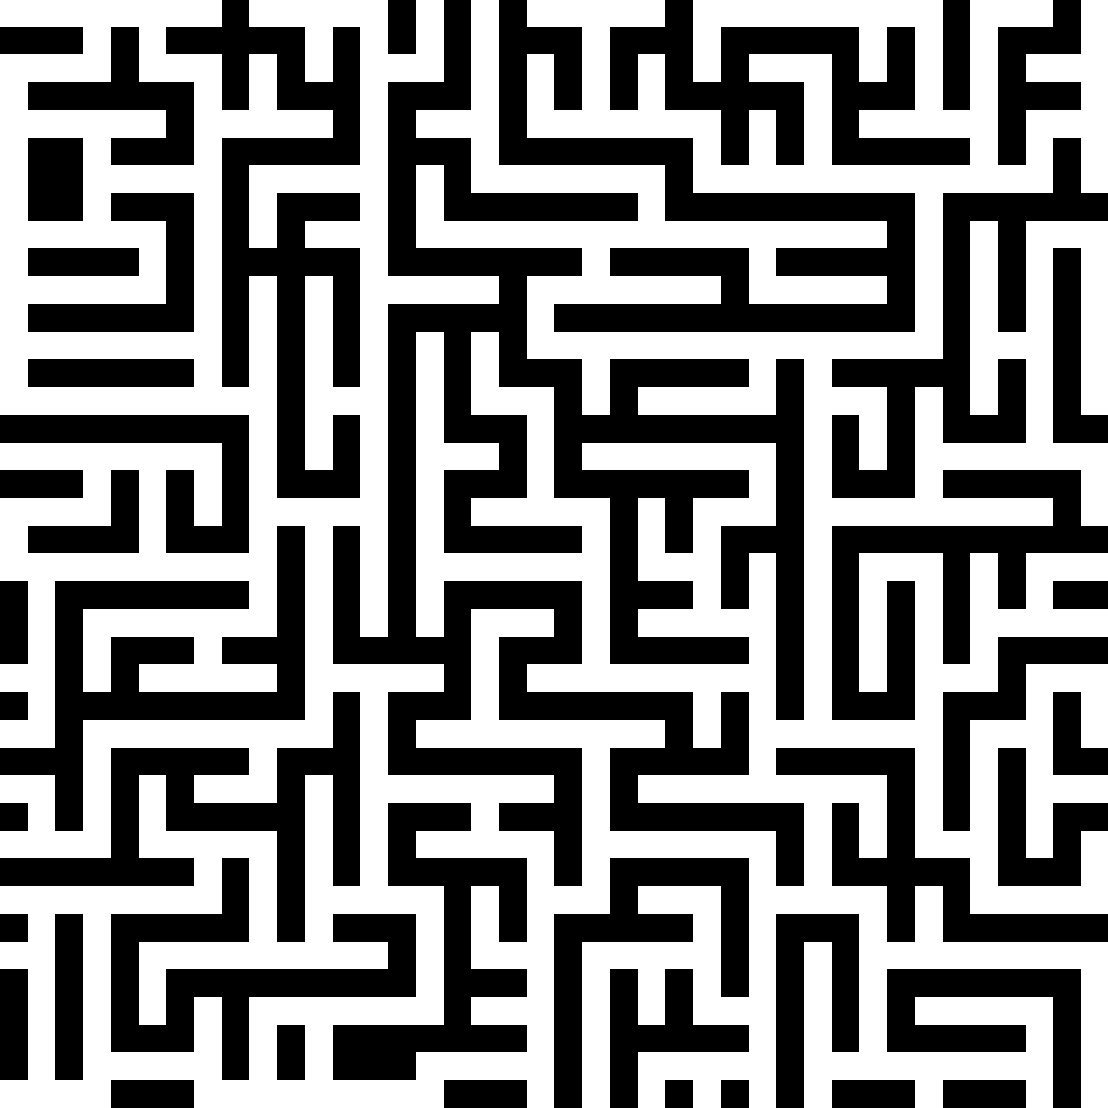
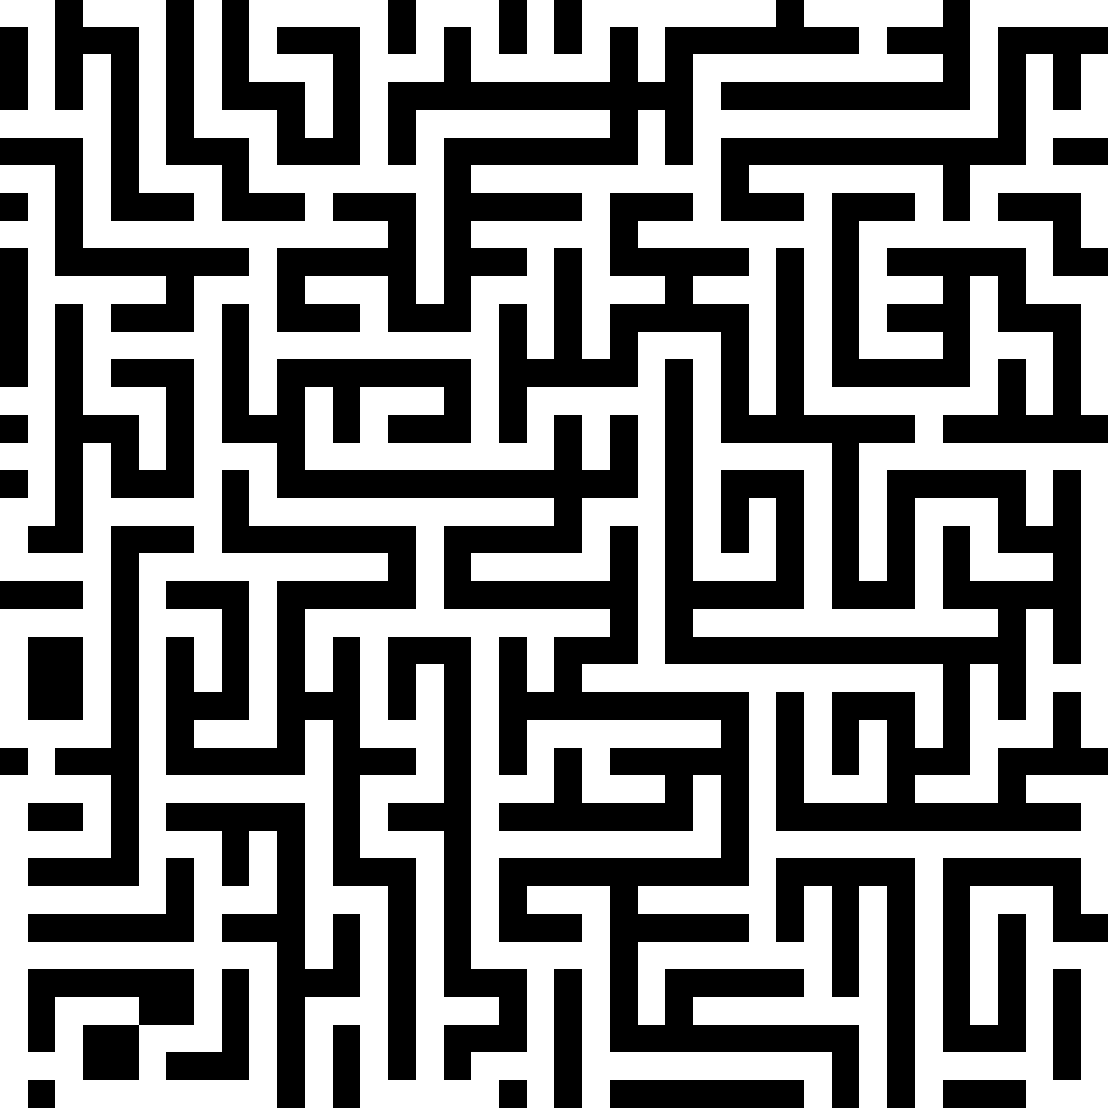
BFS solver

diff --git a/solver.py b/solver.py
@@ -1,0 +1,97 @@
+from matplotlib import pyplot as plt
+import numpy as np
+from collections import defaultdict, deque
+
+#  1  procedure BFS(G, root) is
+#  2      let Q be a queue
+#  3      label root as explored
+#  4      Q.enqueue(root)
+#  5      while Q is not empty do
+#  6          v := Q.dequeue()
+#  7          if v is the goal then
+#  8              return v
+#  9          for all edges from v to w in G.adjacentEdges(v) do
+# 10              if w is not labeled as explored then
+# 11                  label w as explored
+# 12                  w.parent := v
+# 13                  Q.enqueue(w)
+
+
+def adjacent_paths(maze, cell, n, m):
+    x, y = cell
+    cell_path = []
+
+    # bottom neighbours
+    if y + 1 < m:
+        if maze[x, y + 1] == 0:
+            cell_path.append((x, y + 1))
+
+    # top neighbours
+    if y - 1 >= 0:
+        if maze[x, y - 1] == 0:
+            cell_path.append((x, y - 1))
+
+    # left neighbour
+    if x - 1 >= 0:
+        if maze[x - 1, y] == 0:
+            cell_path.append((x - 1, y))
+
+    # right neighbour
+    if x + 1 < n:
+        if maze[x + 1, y] == 0:
+            cell_path.append((x + 1, y))
+
+    return cell_path
+
+
+maze = np.loadtxt("maze.out", delimiter=",")
+width, height = maze.shape
+
+
+def maze_BFS(maze, root, goal):
+    queue = deque()
+    visited = set(root)
+    parents = defaultdict(tuple)
+
+    queue.append(root)
+
+    while queue != deque():
+        cell = queue.popleft()
+
+        if cell == goal:
+            return cell
+
+        for edge in adjacent_paths(maze, cell, width, height):
+            if edge not in visited:
+                visited.add(edge)
+                parents[edge] = cell
+                queue.append(edge)
+
+    return parents
+
+
+maze_path = maze
+
+goal = (width, height)
+root = (0, 0)
+paths = maze_BFS(maze, root, goal)
+
+end = (39, 39)
+
+shortest_path = []
+cell_path = end
+
+while cell_path != root:
+    cell_path = paths[cell_path]
+    path_x, path_y = cell_path
+    maze_path[path_x, path_y] = -1
+
+    shortest_path.append(cell_path)
+
+print(shortest_path)
+
+fig = plt.imshow(maze_path, cmap="gist_gray_r")
+plt.axis("off")
+fig.axes.get_xaxis().set_visible(False)
+fig.axes.get_yaxis().set_visible(False)
+plt.savefig(f"maze_solved_2.png", bbox_inches="tight", dpi=300, pad_inches=0)

diff --git a/maze_g.py b/maze_g.py
@@ -133,6 +133,8 @@ while wall_list != set():
         plt.close()
         filenames.append(f"maze{i}.png")
 
+np.savetxt("maze.out", maze, delimiter=",")
+
 if GIF_GENERATOR == True:
     for filename in filenames:
         images.append(imageio.imread(filename))
